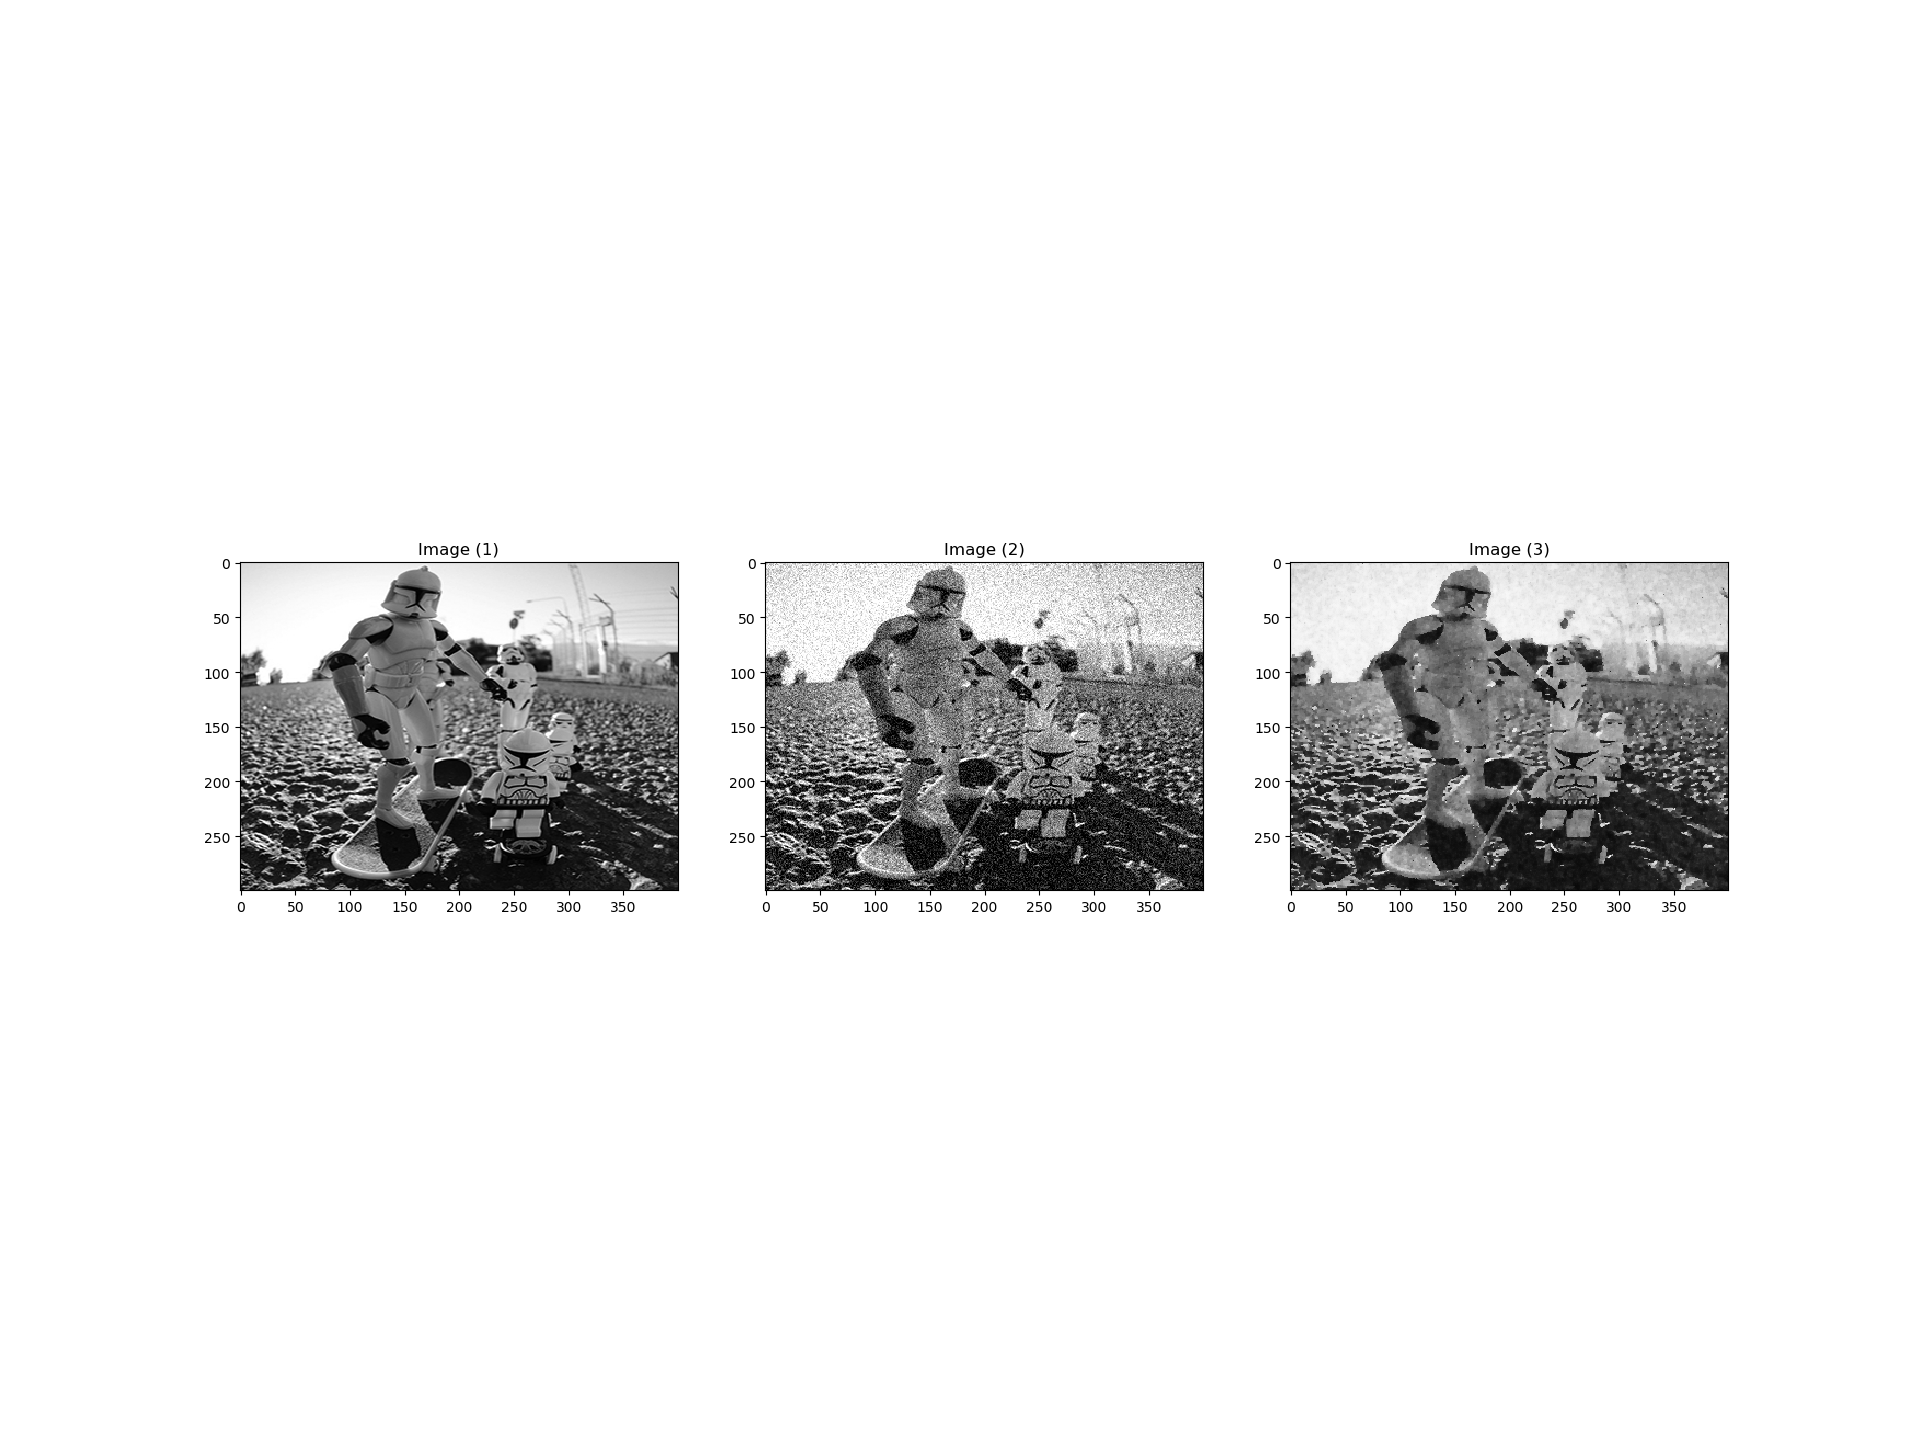
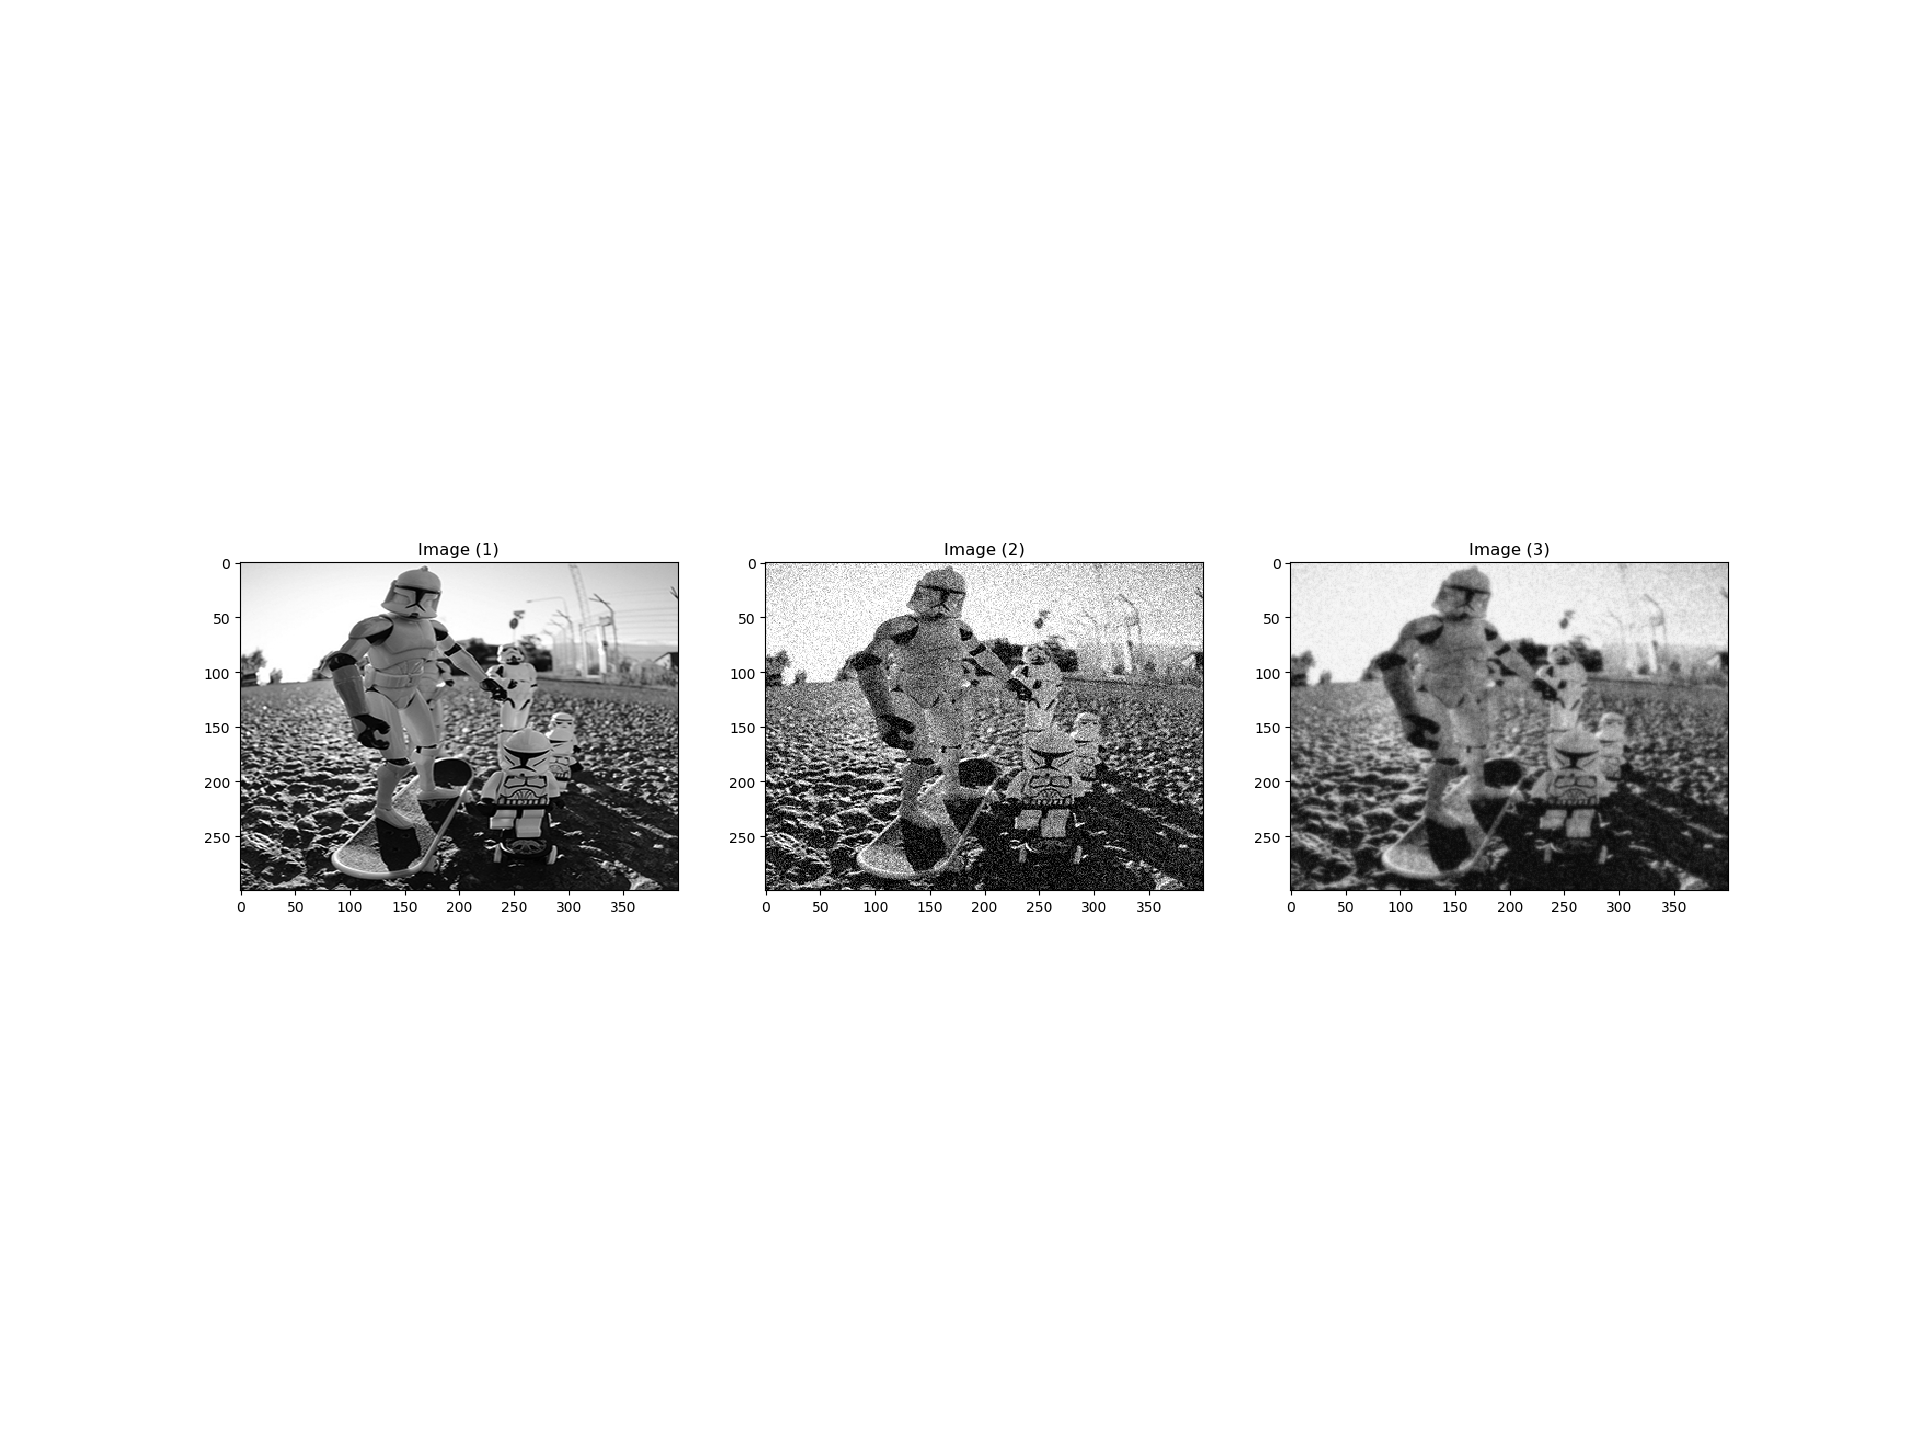
update image denoising test

Changed region(s): [[0.6562, 0.4587, 0.9062, 0.6115]]

diff --git a/demo/image_denoising/inference_test_multiple_images.py b/demo/image_denoising/inference_test_multiple_images.py
@@ -89,7 +89,7 @@ for image_idx, (noisy_image, gt_image) in enumerate(zip(noisy_data, gt_data)):
 
     g = Graph(rvs + evidence, fs)
 
-    infer = PBP(g, n=200)
+    infer = PBP(g, n=100)
     infer.run(50, log_enable=True)
 
     predict_image = np.empty([row, col])
